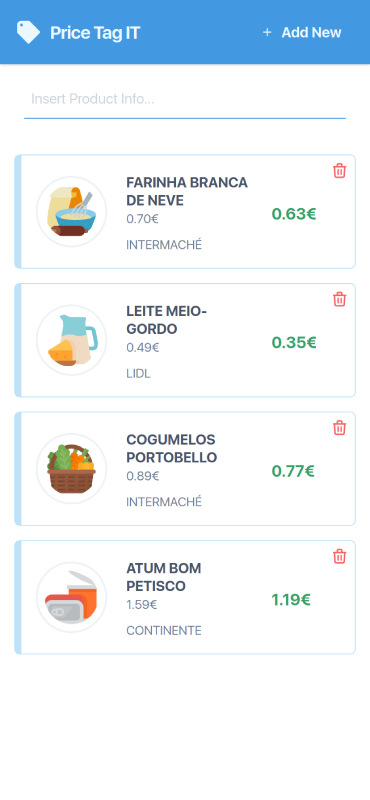
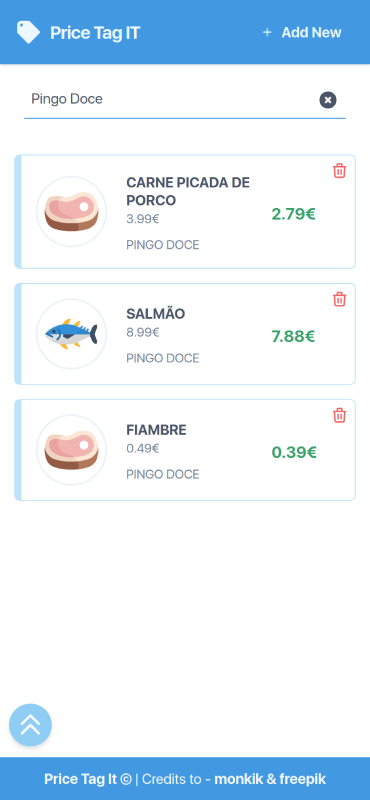
Layout changes to alerts and floating button.

diff --git a/src/components/ProductListing.js b/src/components/ProductListing.js
@@ -95,7 +95,6 @@ const deleteItemHandler = async (product) => {
       setAlert(false);
     },2000);
   });
-  
 };
 
 const topFunction = () => {
@@ -104,13 +103,13 @@ const topFunction = () => {
 
 return (
   <div>
-
     <NavBar searchText={(text) => setTerm(text)} addNew={addNew} changeWindow={(changed => setAddNew(!addNew))}/>
-	<div className="container mx-auto bg-white md:mt-16 h-full overflow-y-auto">
+	<div className="container mx-auto bg-white md:mt-16 h-full overflow-y-auto pb-4">
     {!addNew && !isLoading && products.length === 0 && <h1 className="text-5xl text-center mx-auto mt-32">No Products Found</h1> }
     {addNew ? <ProductCreate categories={categories} submitProduct={(product) => createProductHandler(product)}/>: (
     isLoading ? <h1 className="text-6xl text-center mx-auto mt-32">Loading...</h1> :
     <div className="grid grid-cols-1 px-4">
+      
       {products.filter(product => product.name.toUpperCase().includes(term.toUpperCase()) ||
       product.category.toUpperCase().includes(term.toUpperCase()) || product.store.toUpperCase().includes(term.toUpperCase()))
       .map(product => (
@@ -118,7 +117,7 @@ return (
         <ProductCard key={product.id} product={product} deleteItem={(product) => deleteItemHandler(product)} />
         </div>
       ))}
-      <button onClick={() => topFunction()} id="myBtn" className="focus:outline-none fixed rounded-full shadow-md p-2 bg-blue-300 hover:bg-blue-400 text-white" style={{bottom: 25,left:25}} title="Go to top">
+      <button onClick={() => topFunction()} id="myBtn" style={{zIndex:10}} className="focus:outline-none fixed rounded-full shadow-md p-2 bg-blue-300 hover:bg-blue-400 text-white" style={{bottom: 25,left:25}} title="Go to top">
     <svg className="h-8 w-8" xmlns="http://www.w3.org/2000/svg" fill="none" viewBox="0 0 24 24" stroke="currentColor">
       <path strokeLinecap="round" strokeLinejoin="round" strokeWidth="2" d="M5 11l7-7 7 7M5 19l7-7 7 7" />
     </svg>

diff --git a/src/components/ProductSearch.js b/src/components/ProductSearch.js
@@ -13,9 +13,9 @@ const ProductSearch = ({ searchText }) => {
 
   return (
     <div className='max-w-sm pt-12 rounded overflow-hidden my-10 mx-auto'>
-        <div className="flex items-center border-b border-b-2 border-blue-500 mx-3 py-2">
+        <div className="flex items-center border-b border-b-2 border-blue-200 mx-3 py-2">
         <input id="search" onChange={e => {searchText(e.target.value); setText(e.target.value)}} className="appearance-none bg-transparent border-none w-full text-gray-700 mr-3 py-1 px-2 leading-tight focus:outline-none"
-        type="text" placeholder="Insert Product Info..." />
+        type="text" placeholder="Search by Product Name, Category or Store" />
         {text.length > 0?
         <button onClick={clearSubmition} className="flex-shrink-0 bg-transparent hover:text-red-500 text-sm text-gray-700 pt-1 px-2 rounded-full focus:outline-none" type="submit">
         <svg className="h-6 w-6" xmlns="http://www.w3.org/2000/svg" viewBox="0 0 20 20" fill="currentColor">

diff --git a/src/components/ProductCreate.js b/src/components/ProductCreate.js
@@ -45,7 +45,7 @@ const ProductCreate = ({submitProduct, categories}) => {
             </div>
             <button className="bg-blue-500 p-2 rounded mt-10 text-gray-100 focus:outline-none">Create</button>
             </form>
-            {errorCreate && <div className="alert-toast fixed bottom-0 right-0 m-8 w-5/6 md:w-full max-w-sm">
+            {errorCreate && <div className="alert-toast fixed top-0 right-0 m-8 my-24 w-5/6 md:w-full max-w-sm">
             <label className="close cursor-pointer flex items-start justify-between w-full p-2 bg-red-500 h-12 text-center items-center rounded shadow-lg text-white" title="close">
                 <div><p className="py-2 pl-4">Please insert Product Name & Price!</p></div>
                 <svg className="w-8 h-8 pr-2" xmlns="http://www.w3.org/2000/svg" fill="none" viewBox="0 0 24 24" stroke="currentColor">

diff --git a/src/App.js b/src/App.js
@@ -37,12 +37,7 @@ const login = async (loginInformation) => {
 return (
   <div>
     {isLoggedIn?<ProductListing loggedUser={loggedUser}/>:
-    <div><LandingPage login={(loginInformation) => login(loginInformation)} errorAlert={errorAlert} setLoggedUser={(user) => setLoggedUser(user)}/>
-    <footer className='w-full text-center fixed bottom-0 text-gray-100 bg-blue-500 p-3'>
-      <span className=" font-bold">Price Tag It &copy;</span> | Credits to  - <span className="font-bold cursor-pointer hover:underline">monkik&freepik</span>
-    </footer>
-    </div>
-    }
+    <div><LandingPage login={(loginInformation) => login(loginInformation)} errorAlert={errorAlert} setLoggedUser={(user) => setLoggedUser(user)}/></div>}
   </div>
   );
 }

diff --git a/src/components/Alert.js b/src/components/Alert.js
@@ -2,7 +2,7 @@ import React from 'react';
 
 const Alert = ({created}) => {
     return (
-    <div className="alert-toast fixed bottom-0 right-0 m-8 w-5/6 md:w-full max-w-sm">
+    <div className="alert-toast fixed top-0 mx-8 my-24 w-5/6 md:w-full max-w-sm">
     <label className="close cursor-pointer flex items-start justify-between w-full p-2 bg-green-500 h-12 text-center items-center rounded shadow-lg text-white" title="close">
         <div><p className="py-2 pl-4">{created ? 'New product created sucessfully!' : 'Product deleted sucessfully!'}</p></div>
         <svg className="w-8 h-8 pr-2" xmlns="http://www.w3.org/2000/svg" fill="none" viewBox="0 0 24 24" stroke="currentColor">

diff --git a/src/components/LandingPage.js b/src/components/LandingPage.js
@@ -32,6 +32,9 @@ const LandingPage = ({ login, errorAlert }) => {
             </div>
              {renderSwitch()}
         </div>
+        <footer className='w-full text-center fixed bottom-0 text-gray-100 bg-blue-500 p-3'>
+      <span className=" font-bold">Price Tag It &copy; | Icon Creators  - </span><span>monkik & freepik</span>
+    </footer>
     </div>
     )
 }
